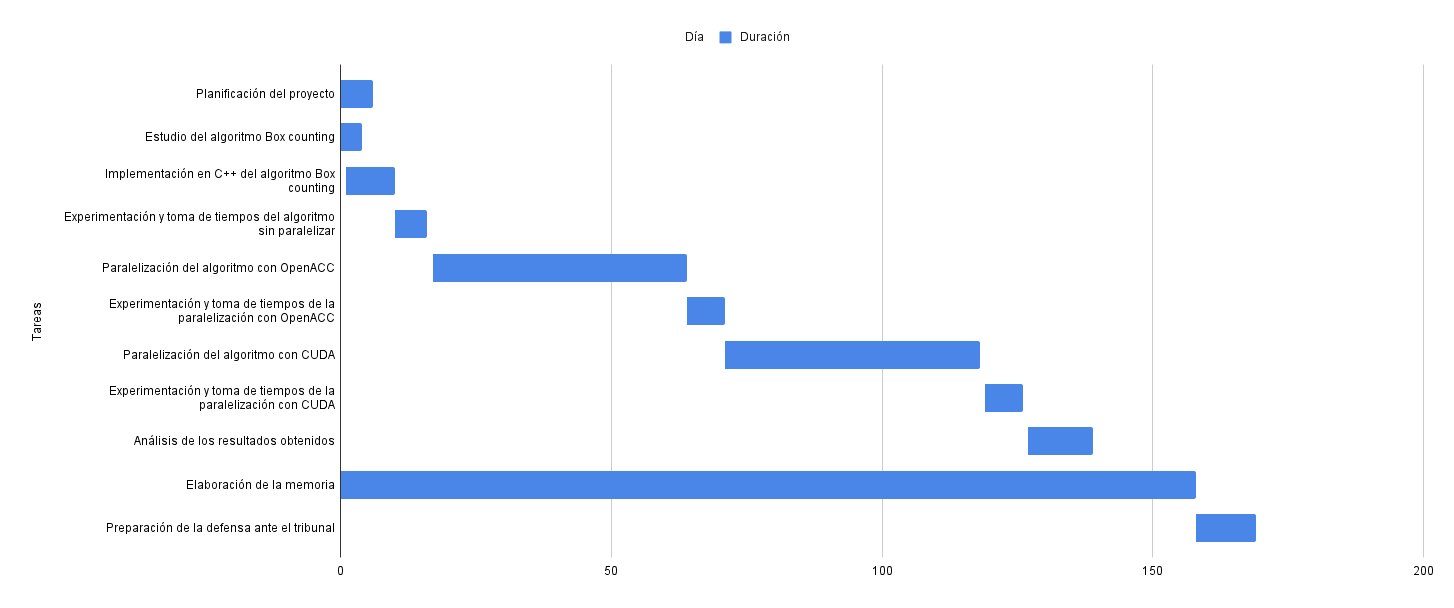
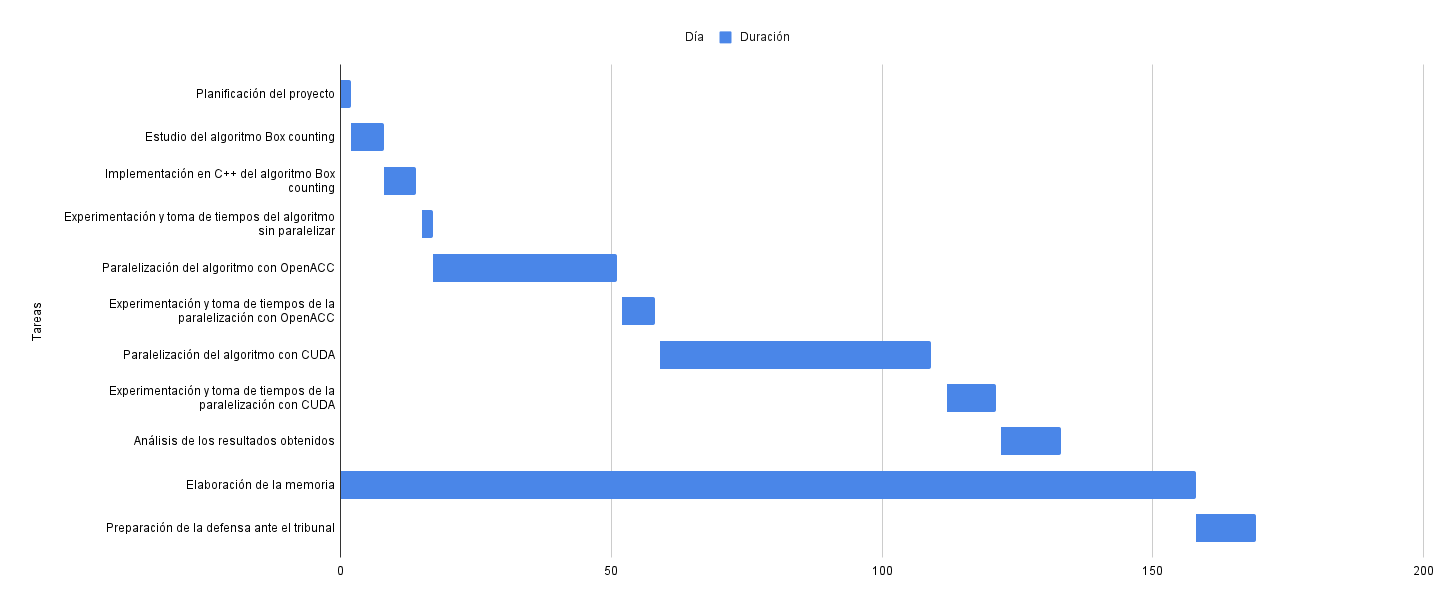
Terminando plan de proyecto

Changed region(s): [[0.4023, 0.4062, 0.5261, 0.625], [0.2166, 0.125, 0.3095, 0.4062], [0.619, 0.5625, 0.7737, 0.75]]

diff --git a/secciones/04_plan_de_proyecto.tex b/secciones/04_plan_de_proyecto.tex
@@ -1,67 +1,67 @@
 \chapter{Plan de proyecto}
 
-En este apartado se presenta la planificación seguida a lo largo de todo el proyecto. Se especifican una serie de tareas diferenciadas entre sí que a continuación serán detalladas en profundidad.\\ Para dar por finalizada una tarea, y así poder pasar a la siguiente, esta ha debido ser revisada previamente por el tutor. \\ Dentro del plan de estudios de la titulación, el trabajo de fin de grado tiene un peso de 12 créditos ECTS, y teniendo en cuenta que cada crédito ECTS equivale a 25 horas obtenemos que el proyecto debe ser completado en 300 horas. De esta manera la planificación que procederemos a desarrollar en esta sección, se elabora considerando que el horario va a ser de lunes a viernes con jornadas de 4 horas de trabajo.\\
+En este apartado se presenta la planificación seguida a lo largo de todo el proyecto. Se especifican una serie de tareas diferenciadas entre sí que a continuación serán detalladas en profundidad.\\ Para dar por finalizada una tarea, y así poder pasar a la siguiente, esta ha debido ser revisada previamente por el tutor. \\ Dentro del plan de estudios de la titulación, el trabajo de fin de grado tiene un peso de 12 créditos ECTS, y teniendo en cuenta que cada crédito ECTS equivale a 25 horas obtenemos que el proyecto debe ser completado en 300 horas. De esta manera la planificación que procederemos a desarrollar en esta sección, se elabora considerando que el horario va a ser de lunes a viernes con jornadas de 3 horas de trabajo.\\
 
-\section{Descripcion de las tareas}
-\subsection{Planificacion del proyecto}
+\section{Descripción de las tareas}
+\subsection{Planificación del proyecto}
 \label{tareaPlanificacion}
-La planificación del proyecto corresponde a la primera tarea. Se subdivide el proyecto en las propias tareas que se están comentando en este punto, se realiza una estimación de tiempo y se genera un diagrama de Gantt que se puede consultar en la figura \ref{fig:Gantt}.\\
+La planificación del proyecto corresponde a la primera tarea. Se subdivide el proyecto en las propias tareas que se están comentando en este punto, se realiza una estimación de tiempo y se genera un diagrama de Gantt que se puede consultar en la Figura \ref{fig:Gantt}.\\
 
-Se estima que esta tarea tendrá una duración de 6 días.
+Se estima que esta tarea tendrá una duración de 5 horas.
 
 \subsection{Estudio del algoritmo Box counting}
 Con esta tarea se deja un tiempo para obtener formación sobre el algoritmo Box counting, conocer como funciona el \textit{"Fixed grid scan"}, y entender la implementación inicial escrita en Matlab. Para la realización de esta tarea se requiere de la adquisición de unas nociones básicas de Matlab debido al desconocimiento previo del lenguaje.\\
 
-Se estima que esta tarea tendrá una duración de 4 días.
+Se estima que esta tarea tendrá una duración de 10 horas.
 
 \subsection{Implementación en C++ del algoritmo Box counting}
 Una vez se haya comprendido el funcionamiento del algoritmo con el que se va a trabajar a lo largo de todo el proyecto, se procederá a su implementación secuencial en C++. Dentro de esta tarea, entra la comprobación de la corrección del código implementado, comprobando que es válido y funciona correctamente con datos reales de activación cerebral.\\
 
-Se estima que esta tarea tendrá una duración de 4 días.
+Se estima que esta tarea tendrá una duración de 10 horas.
 
 \subsection{Experimentación y toma de tiempos del algoritmo sin paralelizar}
 Se deja como tarea una etapa para la experimentación y toma de tiempos del algoritmo secuencial obtenido de la tarea anterior. Para la toma de tiempos se seguirá la metodología que se expone en el capítulo siguiente. El objetivo de la toma de tiempos del algoritmo secuencial es poder realizar comparaciones con las versiones que se implementen posteriormente, y medir que versión proporciona mejores aceleraciones.\\
 
-Se estima que esta tarea tendrá una duración de 6 días.
+Se estima que esta tarea tendrá una duración de 5 horas.
 
 \subsection{Paralelización del algoritmo con OpenACC}
 Se planifica una tarea que conlleva la búsqueda de bibliografía y el estudio del estándar de programación OpenACC. El objetivo de esto es poder añadir al código secuencial las directivas OpenACC necesarias para explotar el paralelismo que nos aporta el uso de una CPU multicore.\\
 
-Se estima que esta tarea tendrá una duración de 47 días.
+Se estima que esta tarea tendrá una duración de 70 horas.
 
 \subsection{Experimentación y toma de tiempos de la paralelización con OpenACC}
 Se planifica como tarea una etapa para la experimentación y toma de tiempos del código resultante de la tarea anterior. Además se analizarán los tiempos obtenidos y se compararán con los tiempos obtenidos en la etapa de experimentación del código secuencial mediante el cálculo de las aceleraciones.\\
 
-Se estima que esta tarea tendrá una duración de 6 días.
+Se estima que esta tarea tendrá una duración de 10 horas.
 
 \subsection{Paralelización del algoritmo con CUDA}
 Se planifica una tarea que conlleva la búsqueda de bibliografía y el estudio de la plataforma de programación CUDA. De esta manera, en esta fase del proyecto, se implementará todo lo necesario para aprovechar la computación de propósito general en unidades de procesamiento gráfico (GPGPU) para aprovechar las tarjetas gráficas de la compañía Nvidia.\\
 
 La paralelización con CUDA es un poco más compleja que la paralelización con OpenACC, por tanto, para realizar esta tarea se empezará implementado la versión en 2D, y partiendo de esa versión como base, se desarrollarán la versión 3D y 4D.\\
 
-Se estima que esta tarea tendrá una duración de 47 días.
+Se estima que esta tarea tendrá una duración de 110 horas.
 
 \subsection{Experimentación y toma de tiempos de la paralelización con CUDA}
 Se deja como tarea una etapa para la experimentación y toma de tiempos del código resultante de la tarea anterior. Además se analizarán los tiempos obtenidos y se compararán con los tiempos obtenidos en la etapa de experimentación del código secuencial y con la etapa de experimentación del código paralelizado con OpenACC mediante el cálculo de las aceleraciones.\\
 
-Se estima que esta tarea tendrá una duración de 6 días.
+Se estima que esta tarea tendrá una duración de 20 horas.
 
 \subsection{Análisis de los resultados obtenidos}
 El objetivo de esta tarea, es dejar un tiempo para la comparación de todos los resultados obtenidos en las etapas de experimentación y toma de tiempos, así como discusión y redacción de conclusiones sobre los resultados obtenidos.\\
 
-Se estima que esta tarea tendrá una duración de 12 días.
+Se estima que esta tarea tendrá una duración de 20 horas.
 
 \subsection{Elaboración de la memoria}
-Durante el desarrollo de todo el proyecto se irá elaborando una memoria a modo de documentación del trabajo realizado.
+Durante el desarrollo de todo el proyecto se irá elaborando una memoria a modo de documentación del trabajo realizado, aunque se estiman 30 horas adicionales para terminarla.
 
 \subsection{Preparación de la defensa ante el tribunal}
 Tras la entrega del trabajo, se deja un tiempo para la elaboración del material necesario para la defensa y exposición del proyecto ante el tribubal.\\
 
-Se estima que esta tarea tendrá una duración de 11 días.
+Se estima que esta tarea tendrá una duración de 10 horas.
 
 
 \section{Diagrama de Gantt}
-Como anticipábamos en \textit{"\nameref{tareaPlanificacion}"}, la primera etapa del proyecto es la planificación temporal del mismo. Para ello el primer paso es la división del proyecto en tareas y su correspondiente especificación.A continuación, se realiza una estimación de los días necesarios que tomará cada tarea, teniendo en cuenta que se trabajará en jornadas de 4 horas diarias de lunes a viernes. Finalmente, se hace una planificación temporal de todas las tareas en base a la estimación de tiempo realizada, obteniendo así el diagrama de la figura \ref{fig:Gantt}. En la tabla \ref{fig:presupuesto} se puede consultar la estimación de cada tarea así como, su fecha de inicio y finalización\\ Debido a la falta de experiencia en un proyecto de este tipo, esta especificación puede que no sea suficientemente detallada, en los siguientes capítulos se profundizará más en la descripción de las distintas tareas.\\
+Como anticipábamos en \textit{"\nameref{tareaPlanificacion}"}, la primera etapa del proyecto es la planificación temporal del mismo. Para ello el primer paso es la división del proyecto en tareas y su correspondiente especificación. A continuación, se realiza una estimación de los días necesarios que tomará cada tarea, teniendo en cuenta que se trabajará en jornadas de 3 horas diarias de lunes a viernes. Finalmente, se hace una planificación temporal de todas las tareas en base a la estimación de tiempo realizada, obteniendo así el diagrama de la Figura \ref{fig:Gantt}. En la tabla \ref{fig:Planificacion} se puede consultar la estimación de cada tarea así como, su fecha de inicio y finalización\\ Debido a la falta de experiencia en un proyecto de este tipo, esta especificación puede que no sea suficientemente detallada, en los siguientes capítulos se profundizará más en la descripción de las distintas tareas.\\ Esto es una planificación inicial del proyecto, como en todo proyecto es posible que surjan inconvenientes que retrasen alguna de las tareas o que se hayan subestimado alguna de ellas.
 
 \begin{figure}[b]
     \centering
@@ -75,34 +75,34 @@ Como anticipábamos en \textit{"\nameref{tareaPlanificacion}"}, la primera etapa
     \begin{adjustbox}{angle=90, max height=\textheight}
     \begin{tabular}{|clllrrl|} 
     \hline
-    \rowcolor{black} \multicolumn{1}{|l}{}  & \textcolor{white}{Tareas} & \textcolor{white}{Fecha de inicio}         & \textcolor{white}{Fecha de finalización} & \textcolor{white}{Duración en días}&\\                                      
+    \rowcolor{black} \multicolumn{1}{|l}{}  & \textcolor{white}{Tareas} & \textcolor{white}{Fecha de inicio}         & \textcolor{white}{Fecha de finalización} & \textcolor{white}{Horas estimadas}&\\                                      
     \hline
-    \rowcolor{white} \multicolumn{1}{|l}{}  & \textcolor{black}{Planificación del proyecto} & \textcolor{black}{1/2/2021}         & \textcolor{black}{7/2/2021} & \textcolor{black}{6}&\\
+    \rowcolor{white} \multicolumn{1}{|l}{}  & \textcolor{black}{Planificación del proyecto} & \textcolor{black}{1/2/2021}         & \textcolor{black}{3/2/2021} & \textcolor{black}{5}&\\
     \hline
-    \rowcolor{white} \multicolumn{1}{|l}{}  & \textcolor{black}{Estudio del algoritmo Box counting} & \textcolor{black}{1/2/2021}         & \textcolor{black}{5/2/2021} & \textcolor{black}{4}&\\  
+    \rowcolor{white} \multicolumn{1}{|l}{}  & \textcolor{black}{Estudio del algoritmo Box counting} & \textcolor{black}{3/2/2021}         & \textcolor{black}{9/2/2021} & \textcolor{black}{10}&\\  
     \hline
-    \rowcolor{white} \multicolumn{1}{|l}{}  & \textcolor{black}{Implementación en C++ del algoritmo Box counting} & \textcolor{black}{2/2/2021}         & \textcolor{black}{11/2/2021} & \textcolor{black}{9}\\
+    \rowcolor{white} \multicolumn{1}{|l}{}  & \textcolor{black}{Implementación en C++ del algoritmo Box counting} & \textcolor{black}{9/2/2021}         & \textcolor{black}{15/2/2021} & \textcolor{black}{10}\\
     \hline
-    \rowcolor{white} \multicolumn{1}{|l}{}  & \textcolor{black}{Experimentación y toma de tiempos del algoritmo sin paralelizar} & \textcolor{black}{11/2/2021}         & \textcolor{black}{17/2/2021} &\textcolor{black}{6}&\\
+    \rowcolor{white} \multicolumn{1}{|l}{}  & \textcolor{black}{Experimentación y toma de tiempos del algoritmo sin paralelizar} & \textcolor{black}{16/2/2021}         & \textcolor{black}{18/2/2021} &\textcolor{black}{5}&\\
     \hline
-    \rowcolor{white} \multicolumn{1}{|l}{}  & \textcolor{black}{Paralelización del algoritmo con OpenACC} & \textcolor{black}{18/2/2021}         & \textcolor{black}{6/4/2021} &\textcolor{black}{47}\\
+    \rowcolor{white} \multicolumn{1}{|l}{}  & \textcolor{black}{Paralelización del algoritmo con OpenACC} & \textcolor{black}{18/2/2021}         & \textcolor{black}{24/3/2021} &\textcolor{black}{70}\\
     \hline
-    \rowcolor{white} \multicolumn{1}{|l}{}  & \textcolor{black}{Experimentación y toma de tiempos de la paralelización con OpenACC} & \textcolor{black}{6/4/2021}         & \textcolor{black}{13/4/2021} &\textcolor{black}{6}\\
+    \rowcolor{white} \multicolumn{1}{|l}{}  & \textcolor{black}{Experimentación y toma de tiempos de la paralelización con OpenACC} & \textcolor{black}{25/3/2021}         & \textcolor{black}{31/3/2021} &\textcolor{black}{10}\\
     \hline
-    \rowcolor{white} \multicolumn{1}{|l}{}  & \textcolor{black}{Paralelización del algoritmo con CUDA} & \textcolor{black}{13/4/2021}         & \textcolor{black}{30/5/2021} &\textcolor{black}{47}\\
+    \rowcolor{white} \multicolumn{1}{|l}{}  & \textcolor{black}{Paralelización del algoritmo con CUDA} & \textcolor{black}{1/4/2021}         & \textcolor{black}{21/5/2021} &\textcolor{black}{110}\\
     \hline
-    \rowcolor{white} \multicolumn{1}{|l}{}  & \textcolor{black}{Experimentación y toma de tiempos de la paralelización con CUDA} & \textcolor{black}{31/5/2021}         & \textcolor{black}{7/6/2021} &\textcolor{black}{6}\\
+    \rowcolor{white} \multicolumn{1}{|l}{}  & \textcolor{black}{Experimentación y toma de tiempos de la paralelización con CUDA} & \textcolor{black}{24/5/2021}         & \textcolor{black}{2/6/2021} &\textcolor{black}{20}\\
     \hline
-    \rowcolor{white} \multicolumn{1}{|l}{}  & \textcolor{black}{Análisis de los resultados obtenidos} & \textcolor{black}{8/6/2021}         & \textcolor{black}{20/6/2021} &\textcolor{black}{12}&\\
+    \rowcolor{white} \multicolumn{1}{|l}{}  & \textcolor{black}{Análisis de los resultados obtenidos} & \textcolor{black}{3/6/2021}         & \textcolor{black}{14/6/2021} &\textcolor{black}{20}&\\
     \hline
-    \rowcolor{white} \multicolumn{1}{|l}{}  & \textcolor{black}{Elaboración de la memoria} & \textcolor{black}{1/2/2021}         & \textcolor{black}{9/7/2021} &\textcolor{black}{-}&\\
+    \rowcolor{white} \multicolumn{1}{|l}{}  & \textcolor{black}{Elaboración de la memoria} & \textcolor{black}{1/2/2021}         & \textcolor{black}{9/7/2021} &\textcolor{black}{30}&\\
     \hline
-    \rowcolor{white} \multicolumn{1}{|l}{}  & \textcolor{black}{Preparación de la defensa ante el tribubal} & \textcolor{black}{9/7/2021}         & \textcolor{black}{20/7/2021} &\textcolor{black}{11}&\\                                  
+    \rowcolor{white} \multicolumn{1}{|l}{}  & \textcolor{black}{Preparación de la defensa ante el tribubal} & \textcolor{black}{9/7/2021}         & \textcolor{black}{20/7/2021} &\textcolor{black}{10}&\\                                  
     \hline
     \end{tabular}
     \end{adjustbox}
     \caption{Planificación temporal de las tareas}
-    \label{fig:presupuesto}
+    \label{fig:Planificacion}
 \end{table}
 
 \section{Recursos}
@@ -110,6 +110,7 @@ Como anticipábamos en \textit{"\nameref{tareaPlanificacion}"}, la primera etapa
 Para la realización del proyecto se cuenta con Miguel Ángel Posadas Arráez como autor del mismo, y con el Profesor Dr. Juan Ruiz de Miras como tutor encargado de la supervisión del mismo.
 
 \subsection{Recursos Software}
+\label{RecursosSoftware}
 Debido a que este proyecto corresponde al ámbito académico, se presta especial atención en utilizar herramientas con licencia libre, o que sean accesibles mediante la adquisición de algún tipo de licencia de estudiante, beneficiandonos así, de las ventajas que nos proporciona pertenecer a la Universidad de Granada.\\
 
 \begin{itemize}
@@ -121,6 +122,7 @@ Debido a que este proyecto corresponde al ámbito académico, se presta especial
 \end{itemize}
 
 \subsection{Recursos Hardware}
+\label{RecursosHardware}
 Para el desarrollo del proyecto se utiliza un ordenador portátil, que cuenta con las siguientes características:
 
 \begin{itemize}
@@ -135,7 +137,7 @@ Para el desarrollo del proyecto se utiliza un ordenador portátil, que cuenta co
     \end{itemize} 
 \end{itemize}
 
-Con el objetivo de dejar más información sobre la plataforma en la que se desarrolla el proyecto, se deja la figura \ref{fig:CPU} con la salida de la ejecución del comando lscpu, y la figura \ref{fig:GPU} con la salida del comando pgaccelinfo.
+Con el objetivo de dejar más información sobre la plataforma en la que se desarrolla el proyecto, se deja la Figura \ref{fig:CPU} con la salida de la ejecución del comando lscpu, y la Figura \ref{fig:GPU} con la salida del comando pgaccelinfo.
 
 \begin{figure}[H]
     \centering
@@ -151,3 +153,94 @@ Con el objetivo de dejar más información sobre la plataforma en la que se desa
     \label{fig:GPU}
 \end{figure}
 
+Este equipo fue comprado hace 4 años con fines académicos por un coste inicial de 1100€, por tanto cada curso académico tiene un coste de 275€. Como este proyecto está enmarcado en un cuatrimestre, se estima que el coste de amortización del equipo es de 137.5€.\\
+
+Como ya se comenta más adelante, el código desarrollado será ejecutado en dos plataformas distintas, con el objetivo de poder tener dos medidas distintas con las que comparar. Las características de esta segunda máquina son las que se pueden consultar en las Figuras \ref{fig:CPUServer} y \ref{fig:GPUServer}:
+
+\begin{figure}[H]
+    \centering
+    \includegraphics[width=\textwidth]{img/lscpuServer.jpeg}
+    \caption{Salida comando lscpu para el servidor de la Universidad}
+    \label{fig:CPUServer}
+\end{figure}
+
+\begin{figure}[H]
+    \centering
+    \includegraphics[width=\textwidth]{img/pgaccelinfoServer.jpeg}
+    \caption{Salida comando pgaccelinfo para el servidor de la Universidad}
+    \label{fig:GPUServer}
+\end{figure}
+
+El servidor tiene un precio de 24000€, si establecemos un periodo de amortización aproximado de 6 años, obtenemos que el del servidor tiene un costo de 4000€/año, que resulta en 11€/día. Como se han requerido 7 días del servidor, concluimos que el costo total por este recurso ha sido de 77€.\\ 
+
+\subsection{Organización del personal}
+Dentro del plan de estudios de la titulación \cite{unknown-author-no-dateC}, el Trabajo de Fin de Grado (TFG), tiene una dotación de 12 créditos ECTS. Sabiendo que cada crédito ECTS equivale a 25 horas, el proyecto debe ser planificado en un total de 300 horas.\\
+
+
+\subsection{Estimación de costos del proyecto}
+
+Como ya se ha comentado previamente, el proyecto debe ser planificado en 300 horas, por tanto en este apartado se va a realizar un desglose de los gastos que conlleva el proyecto, especificando a que se dedicará cada hora. Para el cálculo del presupuesto se va a tomar como salario promedio 8.22 €/hora que es lo encontrado en \cite{unknown-author-2021C}.\\ En la Tabla \ref{fig:CosteTareas} se puede consultar el desglose de los gastos de cada tarea.
+
+\begin{table}[H]
+    \centering
+    \begin{adjustbox}{max height=\textheight,max width=\textwidth}
+    \begin{tabular}{|clllrrl|} 
+    \hline
+    \rowcolor{black} \multicolumn{1}{|l}{}  & \textcolor{white}{Tareas} & \textcolor{white}{Duración (h)}         & \textcolor{white}{Importe (€)} \\                                      
+    \hline
+    \rowcolor{white} \multicolumn{1}{|l}{}  & \textcolor{black}{Planificación del proyecto} & \textcolor{black}{5 h}         & \textcolor{black}{41.1€} &\\
+    \hline
+    \rowcolor{white} \multicolumn{1}{|l}{}  & \textcolor{black}{Estudio del algoritmo Box counting} & \textcolor{black}{10 h}         & \textcolor{black}{82.2€} &\\  
+    \hline
+    \rowcolor{white} \multicolumn{1}{|l}{}  & \textcolor{black}{Implementación en C++ del algoritmo Box counting} & \textcolor{black}{10 h}         & \textcolor{black}{82.2€} \\
+    \hline
+    \rowcolor{white} \multicolumn{1}{|l}{}  & \textcolor{black}{Experimentación y toma de tiempos del algoritmo sin paralelizar} & \textcolor{black}{5 h}         & \textcolor{black}{41.1€}&\\
+    \hline
+    \rowcolor{white} \multicolumn{1}{|l}{}  & \textcolor{black}{Paralelización del algoritmo con OpenACC} & \textcolor{black}{70 h}         & \textcolor{black}{575.4€} &\\
+    \hline
+    \rowcolor{white} \multicolumn{1}{|l}{}  & \textcolor{black}{Experimentación y toma de tiempos de la paralelización con OpenACC} & \textcolor{black}{10 h}         & \textcolor{black}{82.2€} &\\
+    \hline
+    \rowcolor{white} \multicolumn{1}{|l}{}  & \textcolor{black}{Paralelización del algoritmo con CUDA} & \textcolor{black}{110 h}         & \textcolor{black}{904.2€} \\
+    \hline
+    \rowcolor{white} \multicolumn{1}{|l}{}  & \textcolor{black}{Experimentación y toma de tiempos de la paralelización con CUDA} & \textcolor{black}{20 h}         & \textcolor{black}{164.4€} &\\
+    \hline
+    \rowcolor{white} \multicolumn{1}{|l}{}  & \textcolor{black}{Análisis de los resultados obtenidos} & \textcolor{black}{20 h}         & \textcolor{black}{164.4€} &\\
+    \hline
+    \rowcolor{white} \multicolumn{1}{|l}{}  & \textcolor{black}{Elaboración de la memoria} & \textcolor{black}{30 h}  &\textcolor{black}{246.6€}&\\
+    \hline
+    \rowcolor{white} \multicolumn{1}{|l}{}  & \textcolor{black}{Preparación de la defensa ante el tribubal} & \textcolor{black}{10 h}         & \textcolor{black}{82.2€} &\\                                  
+    \hline
+    \rowcolor{white} \multicolumn{1}{|l}{}  & \textcolor{black}{Total} & \textcolor{black}{}         & \textcolor{black}{2466€} &\\                                  
+    \hline
+    \end{tabular}
+    \end{adjustbox}
+    \caption{Desglose de costes de las tareas}
+    \label{fig:CosteTareas}
+\end{table}
+
+En la Tabla \ref{fig:CosteRecursos} se especifican todos los recursos necesarios para la realización del proyecto con su coste asociado.
+
+\begin{table}[H]
+    \centering
+    \begin{adjustbox}{max height=\textheight, max width=\textwidth}
+    \begin{tabular}{|clllrrl|} 
+    \hline
+    \rowcolor{black} \multicolumn{1}{|l}{}  & \textcolor{white}{Recursos} & \textcolor{white}{Importe (€)}         & \textcolor{white}{Detalle} \\                                      
+    \hline
+    \rowcolor{white} \multicolumn{1}{|l}{}  & \textcolor{black}{Recursos Humanos} & \textcolor{black}{2466€ €}         & \textcolor{black}{Total obtenido en la Tabla \ref{fig:CosteTareas}} &\\
+    \hline
+    \rowcolor{white} \multicolumn{1}{|l}{}  & \textcolor{black}{Conexión a Internet} & \textcolor{black}{90 €}         & \textcolor{black}{6 meses desde febrero hasta julio a un precio de 15€/mes } &\\
+    \hline
+    \rowcolor{white} \multicolumn{1}{|l}{}  & \textcolor{black}{Recursos Software} & \textcolor{black}{0 €}         & \textcolor{black}{Ver \textit{\nameref{RecursosSoftware}}} &\\
+    \hline
+    \rowcolor{white} \multicolumn{1}{|l}{}  & \textcolor{black}{Amortización del equipo personal} & \textcolor{black}{137.5 €}         & \textcolor{black}{Coste de amortización del equipo detallado en \textit{\nameref{RecursosHardware}}} &\\
+    \hline
+    \rowcolor{white} \multicolumn{1}{|l}{}  & \textcolor{black}{Amortización del servidor} & \textcolor{black}{77 €}         & \textcolor{black}{Coste de amortización del servidor detallado en \textit{\nameref{RecursosHardware}}} &\\
+    \hline
+    \rowcolor{white} \multicolumn{1}{|l}{}  & \textcolor{black}{Total} & \textcolor{black}{2770.5 €}         & \textcolor{black}{} &\\
+    \hline
+    \end{tabular}
+    \end{adjustbox}
+    \caption{Desglose de costes de los recursos}
+    \label{fig:CosteRecursos}
+\end{table}

diff --git a/prefacios/prefacio.tex b/prefacios/prefacio.tex
@@ -14,7 +14,7 @@ Miguel Ángel Posadas Arráez\\
 \vspace{0.7cm}
 
 \noindent{\textbf{Resumen}\\
-El procesamiento de datos es una parte esencial en el estudio de diversas enfermedades neurodegenerativas. No obstante, las técnicas actuales para la adquisión (resonancia magnética, encefalografía etc...) generan grandes volumenes de datos, lo que conlleva que su procesamiento tenga un gran coste computacional. El propósito de este trabajo es la programación eficiente del método conocido como Box counting para el procesamiento de matrices binarias.  Para la toma de tiempos y con el objetivo de poder hacer diversas comparaciones hemos utilizado dos plataformas con software y hardware diferentes. En un principio, el algoritmo venía programado en Matlab, con el objetivo de obtener una versión más eficiente de este algoritmo implementé una versión secuencial en C++ y posteriormente traté de aprovechar el paralelismo dado por los procesadores multi-core introduciendo la tecnología OpenACC obteniendo aceleraciones de hasta 15.7x. Finalmente, para la obtención de mejores aceleraciones, utilizamos el paradigma de computación de propósito general en unidades de procesamiento gráfico (GPGPU) para aprovechar la arquitectura \textit{Single Instruction, Multiple Data} (SIMD) con el que obtenimos aceleraciones de hasta <> .
+El procesamiento de datos es una parte esencial en el estudio de diversas enfermedades neurodegenerativas. No obstante, las técnicas actuales para la adquisión (resonancia magnética, encefalografía etc...) generan grandes volumenes de datos, lo que conlleva que su procesamiento tenga un gran coste computacional. El propósito de este trabajo es la programación eficiente del método conocido como Box counting para el procesamiento de matrices binarias.  Para la toma de tiempos y con el objetivo de poder hacer diversas comparaciones hemos utilizado dos plataformas con software y hardware diferentes. En un principio, el algoritmo venía programado en Matlab, con el objetivo de obtener una versión más eficiente de este algoritmo implementé una versión secuencial en C++ y posteriormente traté de aprovechar el paralelismo dado por los procesadores multi-core introduciendo la tecnología OpenACC obteniendo aceleraciones de hasta 15.7x. Finalmente, para la obtención de mejores aceleraciones, utilizamos el paradigma de computación de propósito general en unidades de procesamiento gráfico (GPGPU) para aprovechar la arquitectura \textit{Single Instruction, Multiple Data} (SIMD) con el que obtenimos aceleraciones de hasta 38.48x .
 	
 
 \cleardoublepage

diff --git a/portada/portada.tex b/portada/portada.tex
@@ -10,7 +10,7 @@
 \includegraphics[width=0.9\textwidth]{logos/logo_ugr.jpg}\\[1.4cm]
 
 \textsc{ \Large TRABAJO FIN DE GRADO\\[0.2cm]}
-\textsc{ GRADO EN INGENIERIA INFORMATICA}\\[1cm]
+\textsc{ GRADO EN INGENIERÍA INFORMÁTICA}\\[1cm]
 
 {\Huge\bfseries Programación eficiente de un algoritmo de procesamiento de la actividad cerebral \\}
 \noindent\rule[-1ex]{\textwidth}{3pt}\\[3.5ex]
